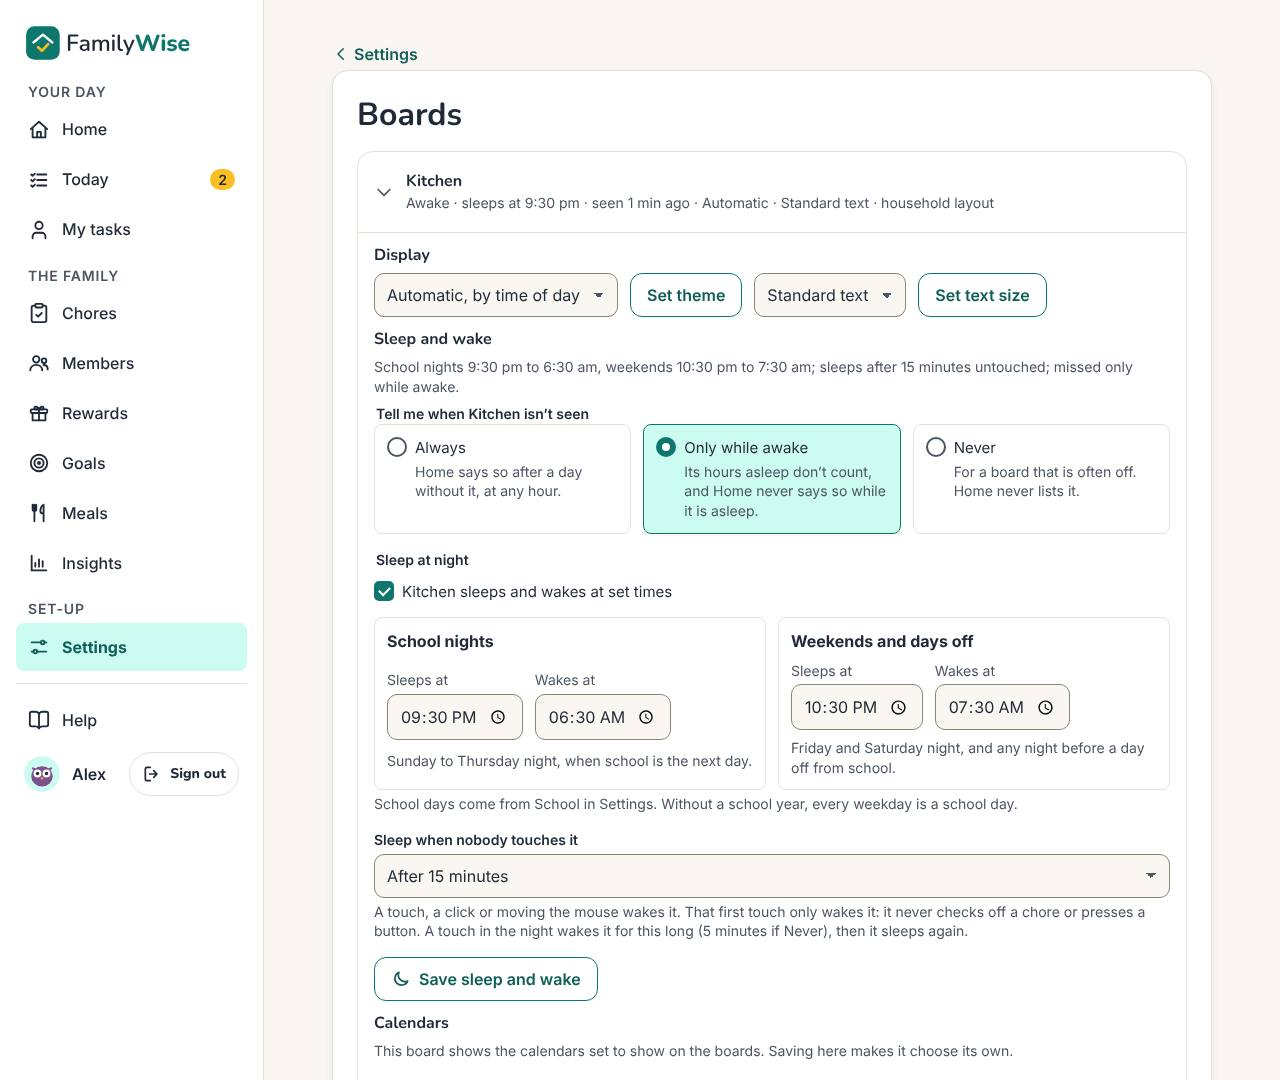
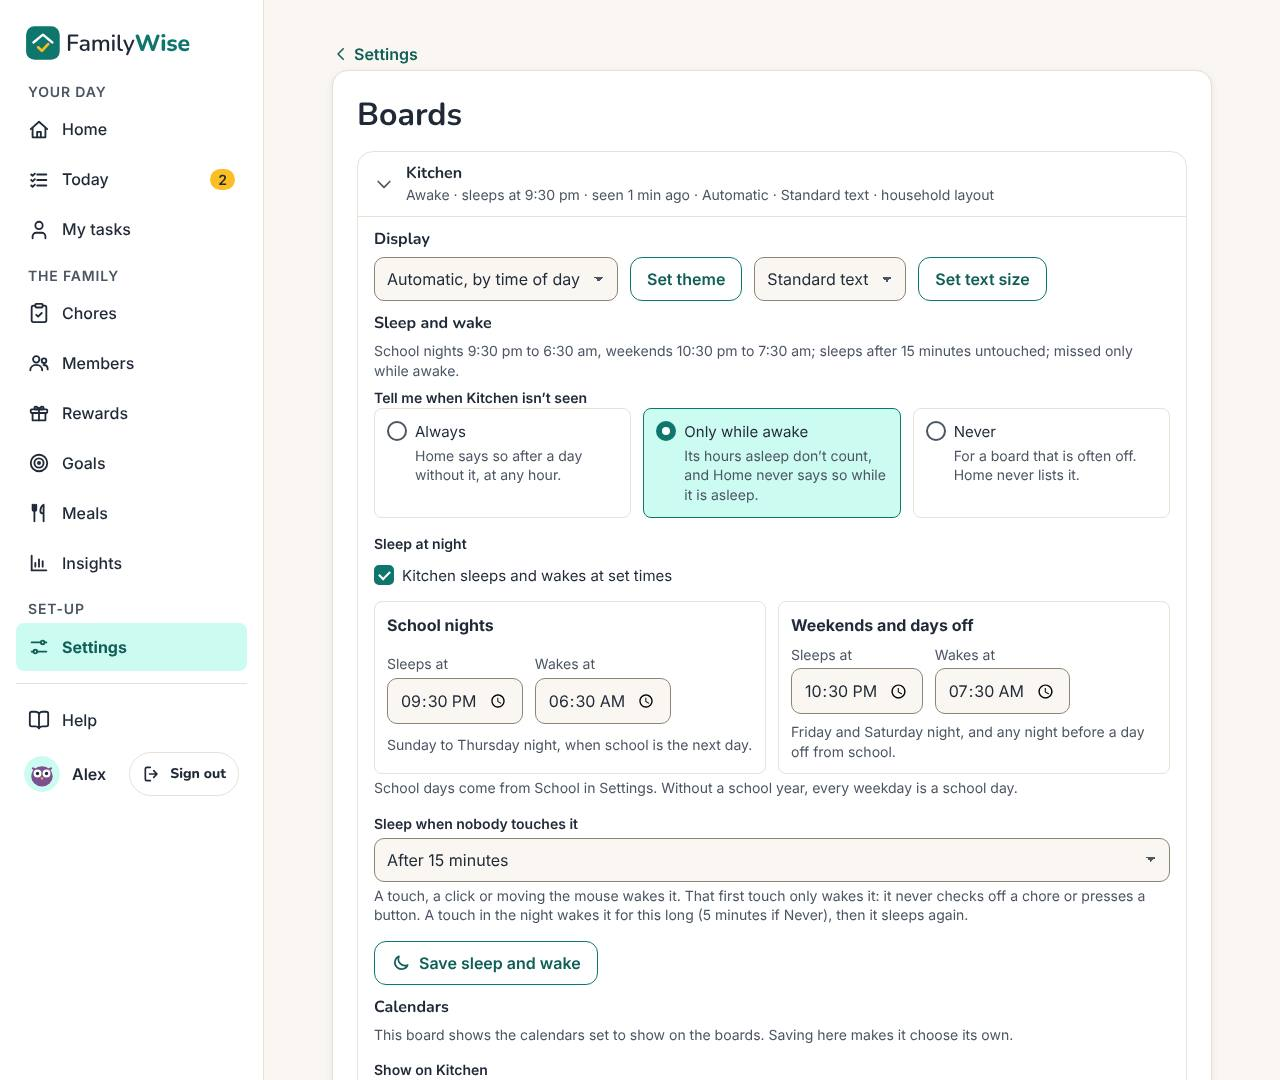
[NFR-18] WP-93: the fold's header and the calendar and menu rows as the fold audit draws them (D-131)
From the side-by-side: the shared fold's header is 64 px with its padding (it was 80 px) and 56 px inside another fold; on a phone a long title keeps its line and its button goes under it; an event reads its title then when, and a menu's day its date then its menu with Change beside them, a line between rows. Guide screenshots with folds retaken.

Claude-Session: https://claude.ai/code/session_01BYM56GZCH7ths6LjwMZ62L

Changed region(s): [[0.2812, 0.1528, 0.9062, 1.0]]

diff --git a/packages/ui/src/ui.css b/packages/ui/src/ui.css
@@ -2161,14 +2161,31 @@ html:has(.board) {
 }
 .fw-calendar__events {
   display: grid;
-  gap: var(--s-1);
   margin: 0;
   padding: 0;
   list-style: none;
 }
+/* [NFR-18] An event a row, as the fold audit draws it (WP-93): its title, then when, a line apart. */
+.fw-calendar__events > li {
+  display: flex;
+  flex-wrap: wrap;
+  column-gap: var(--s-1);
+  padding-block: var(--s-2);
+  border-bottom: var(--border-w) solid var(--line);
+  font-weight: 600;
+}
+.fw-calendar__events > li.fw-muted,
+.fw-calendar__events > li:has(+ li.fw-muted),
+.fw-calendar__events > li:last-child {
+  border-bottom: 0;
+  font-weight: 400;
+}
 .fw-calendar__when {
+  order: 2;
+  flex-basis: 100%;
   color: var(--text-soft);
   font-size: var(--t-small);
+  font-weight: 400;
   font-variant-numeric: tabular-nums;
 }
 /* [CAL-09] Who a calendar is for (WP-50): its people's faces, overlapping, before their names. */
@@ -3296,6 +3313,7 @@ span.fw-heat__cell {
   gap: 0;
 }
 .fw-fold__head {
+  box-sizing: border-box;
   display: flex;
   flex-wrap: wrap;
   align-items: center;
@@ -3311,6 +3329,10 @@ span.fw-heat__cell {
 .fw-fold__head > :is(h2, h3) {
   margin: 0;
 }
+/* [NFR-18] A fold inside another is 56 px, as the fold audit draws it (WP-93). */
+.fw-fold--inner > .fw-fold__head {
+  min-height: 56px;
+}
 /* A long title shares the chevron's line and wraps beside it (the icon picker's, on a phone). */
 .fw-fold--inner > .fw-fold__head > h3 {
   flex: 1 1 0%;
@@ -3325,10 +3347,10 @@ details[open] > .fw-fold__head .fw-lunchday__chev {
   pointer-events: none;
   white-space: nowrap;
 }
-/* On a phone the header and Add a meal share one row, as in the mockup. */
+/* On a phone the header and Add a meal share one row, as in the mockup; a longer title (Add a
+   calendar) keeps its line and its button goes under it, at the right (WP-93). */
 @media (max-width: 480px) {
   .fw-fold__head:not(:has(.fw-fold__sum)) {
-    flex-wrap: nowrap;
     padding-inline: var(--s-3);
   }
   .fw-fold__head > h2 {
@@ -3902,11 +3924,22 @@ details[open] > .fw-lunchday__head .fw-lunchday__chev {
   list-style: none;
   overflow-wrap: anywhere;
 }
+/* [NFR-18] A day a row, as the fold audit draws it (WP-93): the date, then its menu, Change beside
+   them; opened, Change's form takes the row's width. */
 .fw-menu-days > li {
-  display: flex;
-  flex-wrap: wrap;
-  gap: var(--s-1) var(--s-2);
-  align-items: baseline;
+  display: grid;
+  grid-template-columns: minmax(0, 1fr) auto;
+  gap: var(--s-1) var(--s-3);
+  align-items: start;
+  padding-block: var(--s-2);
+  border-bottom: var(--border-w) solid var(--line);
+}
+.fw-menu-days > li:last-child {
+  border-bottom: 0;
+}
+.fw-menu-days > li > :not(.fw-menu-days__change) {
+  grid-column: 1;
+  justify-self: start;
 }
 .fw-menu-days > li[data-today] .fw-menu-days__date {
   color: var(--primary-text);
@@ -3916,7 +3949,8 @@ details[open] > .fw-lunchday__head .fw-lunchday__chev {
   font-weight: 600;
 }
 .fw-menu-days__change {
-  margin-left: auto;
+  grid-column: 2;
+  grid-row: 1 / span 2;
 }
 .fw-menu-days__change > summary {
   color: var(--primary-text);
@@ -3924,8 +3958,8 @@ details[open] > .fw-lunchday__head .fw-lunchday__chev {
   cursor: pointer;
 }
 .fw-menu-days__change[open] {
-  flex-basis: 100%;
-  margin-left: 0;
+  grid-column: 1 / -1;
+  grid-row: auto;
 }
 .fw-menu-picker,
 .fw-menu-preview {

diff --git a/docs/00-README.md b/docs/00-README.md
@@ -153,7 +153,7 @@ Source of truth for IDs is `04`. CI runs `python3 docs/check_traceability.py --d
 | D-128 | **The goal form's last four differences from its mockups (WP-101), 17 October, confirmed by the owner the same day.** Added at the owner's request as WP-100's follow-up: (1) on a goal with two or more rules each rule folds to one summary line, **Rule 1 · weight** with its **Weight** beside it, opens to its fields on a tap and folds again with **Done**; any number may be open at once (the owner's choice); a new rule and a rule with something to fix open by themselves; a single rule keeps its fields and its **What counts** folds to one line, as the frames draw them; a folded rule sends every field, so saving is unchanged. (2) The form's live summaries (a rule's days due with the day off named, every child's days, the steps, the weights, the weeks a weeks-won rule counts) are worked out by **Preview**'s own code each time the form changes, never by a second engine; `goal_preview_facts()` gains the school calendar's closures around today so the summary names the day off. (3) Items show their picture beside their name. (4) The goal screens write a date "Mon, Oct 12, 2026" and a time "6:00 pm"; **Starts**, **Ends** and **By** stay real pickers under the written words. The owner's answers on 17 October: more than one rule may be unfolded at a time; the live summaries come from Preview's code; a closure is worded by its kind ("a teacher planning day", "in Winter break", "Thanksgiving"); "A normal week needs 5" counts only the closed days one of the rule's items would have been due on were the school open (its schedule and day types; a lunch-day item isn't known, and when it can't be worked out the sentence isn't said); the weights' and steps' summaries sit at the foot of the form, where the frames draw them; the item pictures are the app's line icons. |
 | D-129 | **What the nightly e2e run may say, and what counts as a slow database (WP-102), 17 October, confirmed by the owner with their approval of WP-102 the same day.** Added with the e2e red triage the owner asked for. (1) The run hides every database connection string (`postgresql://***`) before it writes its summary or an "E2E red on main" issue: GitHub masks a secret in a job's log, not in an issue the job opens, and the 17 October run put the test database's password in issue #119. (2) A board change that misses its latency budget while the board's own read of the change took over 2 s (the probe's own bar for the test database) is infrastructure evidence, "the test database slow while the test ran", and re-runs once as D-110 allows; the probe's cheap query can answer in time while the board's read is slow. The budget itself stays exact; a second miss is red. (3) A board marks its read's start when the read returns (`data-read-from`), so the evidence is the read that drew the change. |
 | D-130 | **The e2e findings log and a run by hand, as built (WP-98), 17 October, for the owner to confirm.** Confirms D-121's proposal for the log's place: one GitHub issue, "E2E findings log", with one comment per e2e run in which any test failed, written by the run's own `issues: write`, so the run never pushes to `main`. Claude Code's choices, for the owner to confirm: (1) a test that failed and passed on its one infrastructure re-run is logged too ("none needed: passed on its re-run"), so every re-run is counted (D-129); a run in which nothing failed writes nothing. (2) The count is "failed in n of the last 30 e2e runs (m red)", the runs being the workflow's last 30 on `main`, green ones included; a test is known by its spec and title, not its line. The run summary lists each test that failed in more than one of them, green runs included. (3) Every word the log writes goes through `redact()` again, whatever it is handed. (4) **Done** reads "open" until the worker who fixes the test edits the comment to name its PR. (5) A run by hand (Actions → e2e → Run workflow) starts on `main` only, and only when no other e2e run is queued or going: the `demo-family` group keeps one waiting run and GitHub cancels it when a newer one joins, so a run by hand that joined could displace the night's run. It is refused with the run to wait for instead. The scheduled run is never refused. (6) If GitHub can't be read or written, the run summary says so and the run is not failed by it. |
-| D-131 | **Calendars, school menus and the meal library folded, as built (WP-93), 17 October, for the owner to confirm.** Built from the fold audit's Calendars, School menus and meal library frames the owner approved on 16 October (D-120). Claude Code's choices, for the owner to confirm: (1) a calendar's header says how long ago it synced ("Synced 12 min ago", as the frame does), and a menu's says the time it fetched today or the day and time before ("Fetched 6:29 am", as the frame does): calendars sync every 15 minutes, menus once a morning. (2) A calendar or menu that can't sync or fetch still says when it last worked and its count of events or days, beside the warning; the frame showed only the warning. (3) A menu's header names only where it comes from ("From Nutrislice"); the school and menu ("Maple Elementary · Lunch") show when it is opened, with whose lunch in full. (4) A menu's **Rename** is its name field and **Rename** button in the set-apart **Menu** group, as on Boards (WP-91), not a button that opens a form; **Remove** still asks first. (5) The days on a menu's header count days with lunch: a day with no lunch served isn't counted. (6) **Add a school menu**'s button reads **Add a menu**, as the frame draws it. |
+| D-131 | **Calendars, school menus and the meal library folded, as built (WP-93), 17 October, for the owner to confirm.** Built from the fold audit's Calendars, School menus and meal library frames the owner approved on 16 October (D-120). Claude Code's choices, for the owner to confirm: (1) a calendar's header says how long ago it synced ("Synced 12 min ago", as the frame does), and a menu's says the time it fetched today or the day and time before ("Fetched 6:29 am", as the frame does): calendars sync every 15 minutes, menus once a morning. (2) A calendar or menu that can't sync or fetch still says when it last worked and its count of events or days, beside the warning; the frame showed only the warning. (3) A menu's header names only where it comes from ("From Nutrislice"); the school and menu ("Maple Elementary · Lunch") show when it is opened, with whose lunch in full. (4) A menu's **Rename** is its name field and **Rename** button in the set-apart **Menu** group, as on Boards (WP-91), not a button that opens a form; **Remove** still asks first. (5) The days on a menu's header count days with lunch: a day with no lunch served isn't counted. (6) **Add a school menu**'s button reads **Add a menu**, as the frame draws it. (7) Found by the side-by-side: the shared fold's header was 80 px tall (its 64 px plus its padding); it is now 64 px, and 56 px for a fold inside another, as the fold audit draws them, so Boards, Meals, Goals and the icon picker's folds are 16 to 24 px shorter. On a phone, a header too long to share its row with its button (**Add a calendar**) keeps its title on one line and puts the button under it, at the right. An event on Calendars reads its title, then when, and a menu's day its date, then its menu, with **Change** beside them, each a row with a line between, as the frames draw them. |
 
 ## Repo layout
 

diff --git a/docs/05-backlog.md b/docs/05-backlog.md
@@ -1623,7 +1623,7 @@ flowchart LR
 | NFR-18-i | A calendar or a menu just saved in comes back open and the others stay folded; **Archived** comes back open after an archive; with none yet, **Add a calendar**, **Add a school menu** and **Add a meal** are open | UI |
 | NFR-18-j | On the preview, Alex opens Calendars with every calendar folded, reads the Family calendar's header, opens it, saves an edit under **Edit**, and finds it open after the save | E2E |
 
-- **As built:** no migration. **Calendars:** `CalendarsView` in `apps/web/app/(admin)/admin/calendars/view.tsx`, each calendar a row of the shared `Fold` (WP-91): its colour and name, then `calendarFacts()` in `apps/web/lib/calendars.ts` (who it's for with their faces; "Not on the boards"; "Synced 12 min ago", "last synced" its last good sync while it can't, "never synced" or "Not synced yet"; "23 events coming up" or "nothing coming up") and **Can't sync** as its warning. Opened: how its sync went, what's coming up, then **Edit** and **Remove** as inner folds. **Add a calendar** folds to its button, open while there is no calendar. **School menus:** `MenusView` in `apps/web/app/(admin)/admin/meals/menus/view.tsx`, each menu a row: `menuFacts()` in `apps/web/lib/menus.ts` (from Nutrislice, a file or typed in; whose lunch or "nobody yet"; a feed's "Fetched 6:29 am" today or its day and time before, "last fetched" while it can't, "never fetched" or "Not fetched yet"; "9 days in the next four weeks", counting days with lunch) and **Can't fetch** as its warning. Opened: the menu's source and whose lunch in full, how its fetches are going, its weeks, **Load a file into** (a file's) and **Add a day to** as inner folds, then **Menu** set apart: **Fetch now**, **Rename** (its name field and button, as on Boards) and **Remove**, which still asks first. **Add a school menu** folds to its **Add a menu** button, open while there is no menu or while it lists a district's schools. **The meal library:** `MealLibraryView`: **Add a meal** folds to its button (open while the library is empty), **Our meals** stays open, **Archived** folds to its count. Every save in a calendar or menu sends the page back with it open (`open=` and its anchor: `saveCalendar()`, and `back()` in the menus' actions for add, rename, fetch, a day saved or cleared and a file loaded); an archive opens **Archived**. `agoWords()` in `apps/web/lib/format.ts` ("just now", "5 min ago", "7 h ago", then the day and time) is shared with Boards' `seenWords()`. A day's **Change** is a 44 px target again inside a fold (`.fw-menu-days__change > summary`). Tests: `calendarFacts` in `apps/web/lib/calendars.test.ts` and `menuFacts` in `apps/web/lib/menus.test.ts` (NFR-18-a to NFR-18-e, with midnight UTC and the end of daylight saving); UI suite `e2e/ui/calendars.spec.ts`, `e2e/ui/menus.spec.ts` and `e2e/ui/meals.spec.ts` (NFR-18-f to NFR-18-i; their earlier tests open the folds they read); e2e (nightly): `e2e/tests/calendar-fold.spec.ts` (NFR-18-j), and `calendar.spec.ts`, `board-calendar.spec.ts`, `menus.spec.ts` and `meals.spec.ts` open the folds they use. `/dev/calendars`, `/dev/menus` and `/dev/meals?page=library` take `?open=` and `?state=empty`; `scripts/screen-shots.mjs` keeps a calendar, a menu and Archived opened too.
+- **As built:** no migration. **Calendars:** `CalendarsView` in `apps/web/app/(admin)/admin/calendars/view.tsx`, each calendar a row of the shared `Fold` (WP-91): its colour and name, then `calendarFacts()` in `apps/web/lib/calendars.ts` (who it's for with their faces; "Not on the boards"; "Synced 12 min ago", "last synced" its last good sync while it can't, "never synced" or "Not synced yet"; "23 events coming up" or "nothing coming up") and **Can't sync** as its warning. Opened: how its sync went, what's coming up, then **Edit** and **Remove** as inner folds. **Add a calendar** folds to its button, open while there is no calendar. **School menus:** `MenusView` in `apps/web/app/(admin)/admin/meals/menus/view.tsx`, each menu a row: `menuFacts()` in `apps/web/lib/menus.ts` (from Nutrislice, a file or typed in; whose lunch or "nobody yet"; a feed's "Fetched 6:29 am" today or its day and time before, "last fetched" while it can't, "never fetched" or "Not fetched yet"; "9 days in the next four weeks", counting days with lunch) and **Can't fetch** as its warning. Opened: the menu's source and whose lunch in full, how its fetches are going, its weeks, **Load a file into** (a file's) and **Add a day to** as inner folds, then **Menu** set apart: **Fetch now**, **Rename** (its name field and button, as on Boards) and **Remove**, which still asks first. **Add a school menu** folds to its **Add a menu** button, open while there is no menu or while it lists a district's schools. **The meal library:** `MealLibraryView`: **Add a meal** folds to its button (open while the library is empty), **Our meals** stays open, **Archived** folds to its count. Every save in a calendar or menu sends the page back with it open (`open=` and its anchor: `saveCalendar()`, and `back()` in the menus' actions for add, rename, fetch, a day saved or cleared and a file loaded); an archive opens **Archived**. `agoWords()` in `apps/web/lib/format.ts` ("just now", "5 min ago", "7 h ago", then the day and time) is shared with Boards' `seenWords()`. A day's **Change** is a 44 px target again inside a fold (`.fw-menu-days__change > summary`). From the side-by-side (D-131): the shared fold's header is 64 px tall with its padding (it was 80 px), 56 px inside another fold, so every fold in the admin app is shorter, as the fold audit draws it; on a phone a long title keeps its line and its button goes under it; an event reads its title, then when, and a menu's day its date, then its menu, with **Change** beside them, a line between rows. Tests: `calendarFacts` in `apps/web/lib/calendars.test.ts` and `menuFacts` in `apps/web/lib/menus.test.ts` (NFR-18-a to NFR-18-e, with midnight UTC and the end of daylight saving); UI suite `e2e/ui/calendars.spec.ts`, `e2e/ui/menus.spec.ts` and `e2e/ui/meals.spec.ts` (NFR-18-f to NFR-18-i; their earlier tests open the folds they read); e2e (nightly): `e2e/tests/calendar-fold.spec.ts` (NFR-18-j), and `calendar.spec.ts`, `board-calendar.spec.ts`, `menus.spec.ts` and `meals.spec.ts` open the folds they use. `/dev/calendars`, `/dev/menus` and `/dev/meals?page=library` take `?open=` and `?state=empty`; `scripts/screen-shots.mjs` keeps a calendar, a menu and Archived opened too.
 - **Deferred, as plain facts:** nothing.
 
 ### WP-94 — The set-up pages folded

diff --git a/docs/06-brand-and-style-guide.md b/docs/06-brand-and-style-guide.md
@@ -1,7 +1,7 @@
 # 06 — FamilyWise Brand and Style Guide
 
 > Version 1.18 · Status: built (WP-37, WP-06, WP-11, WP-13, WP-17, WP-19, WP-30, WP-40, WP-20, WP-22, WP-23, WP-35, WP-45, WP-46, WP-47, WP-48, WP-28, WP-51, WP-52)
-> v1.29: Calendars, School menus and the meal library folded (§7.3, WP-93, D-120, D-131): a calendar's colour before its name on its header; Rename set apart as a name field with its button; a menu day's **Change** a 44 px target.
+> v1.29: Calendars, School menus and the meal library folded (§7.3, WP-93, D-120, D-131): a calendar's colour before its name on its header; Rename set apart as a name field with its button; a menu day's **Change** a 44 px target, beside the day's date and menu; an event its title, then when; the fold's header 64 px tall, padding included, and 56 px inside another fold; on a phone a long title keeps its line and its button goes under it.
 > v1.28: the goal screens' dates and the form's callouts (WP-101, D-128): a whole date "Mon, Oct 12, 2026" and a time "6:00 pm" on the goal screens, written over the real picker; the callout (a soft fill with the primary colour's bar on its left); a rule folded to its summary line with a list's chevron, items with their picture (§2, §7).
 > v1.27: the admin app's form controls drawn by the app on every engine (WP-100, D-127): fields 44 px, 10 px round, filled with the background, with `--field-edge` (3:1) and the focus ring, 16 px text; radios and check boxes 20 px in Teal; segmented chips (`.fw-seg`), boxes (`.fw-box`), the app's file picker; admin buttons 12 px round in Inter 600, secondary on the card with a Teal edge, ghost as Teal words, danger in Plum.
 > v1.26: a family goal every child meets (WP-82, D-126): a row per child (`.fw-goal__kids`), their avatar and name with how it stands for them and their days; a goal counting weeks won shows the counted goal's weeks as period marks (`.fw-goal__counted`).
